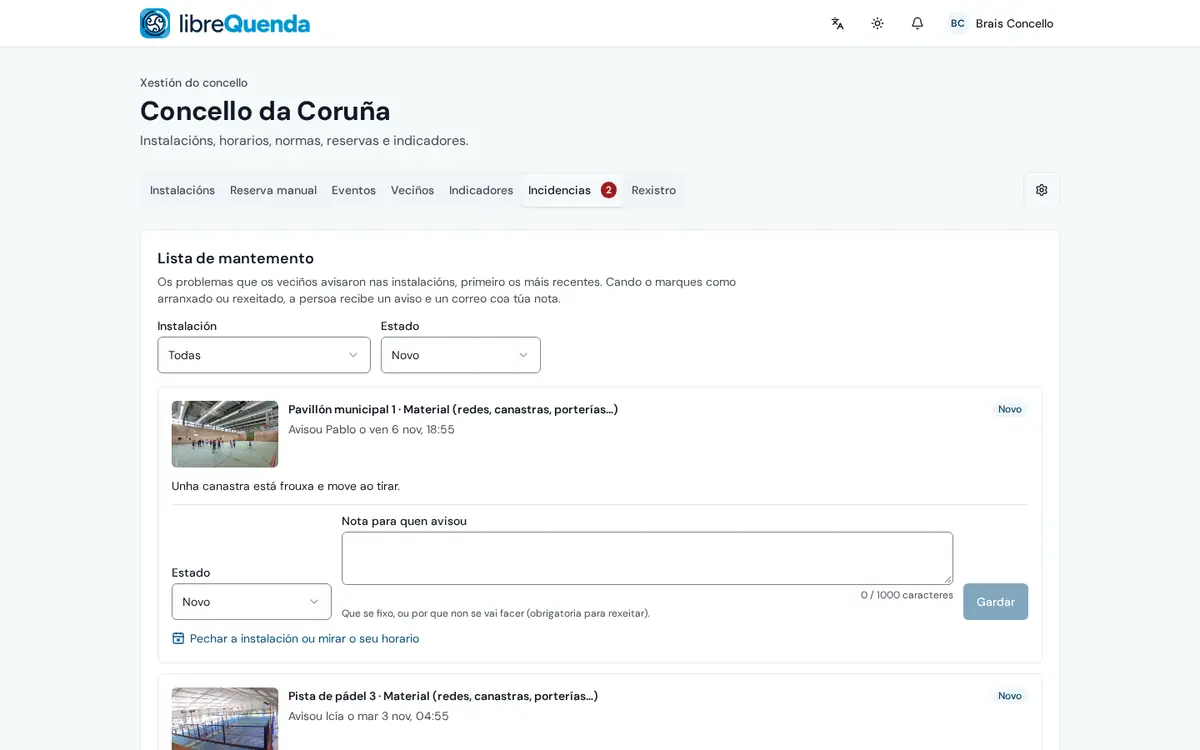
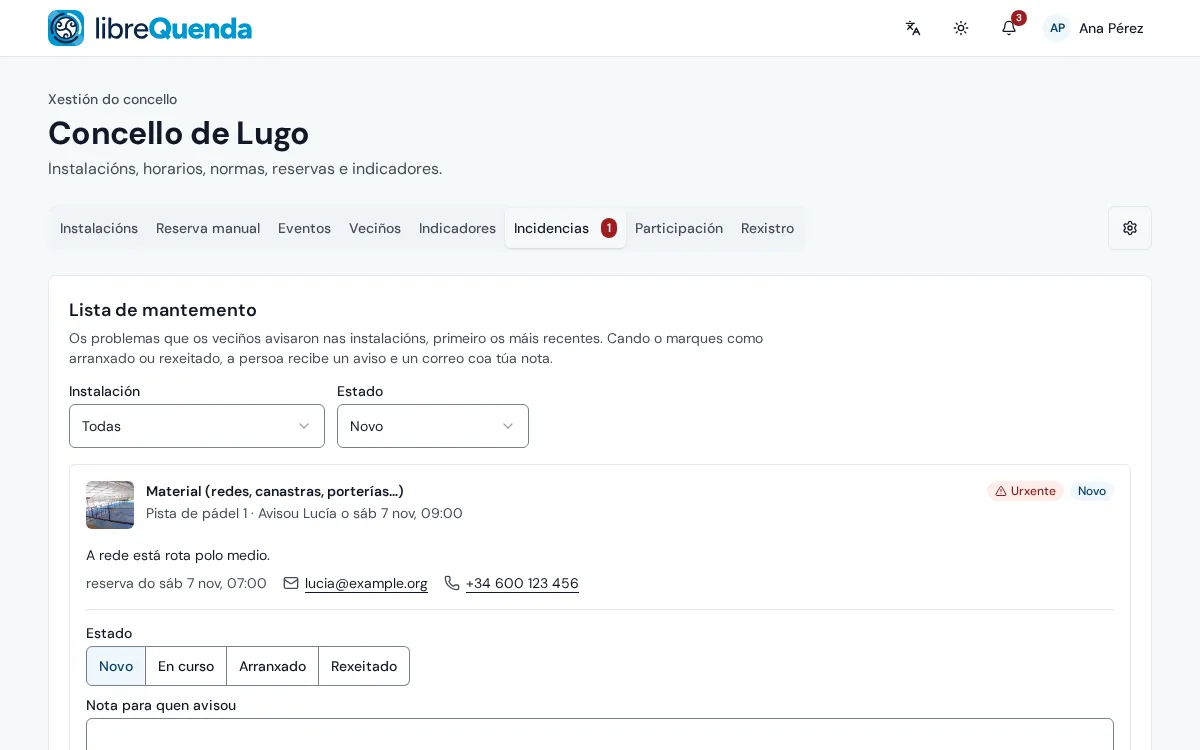
docs(wiki): the new maintenance card, the events' history and paged lists

diff --git a/docs/wiki/concello.md b/docs/wiki/concello.md
@@ -96,7 +96,7 @@ Instalacións «Só para veciños», con solicitude de verificación desde a app
 
 ## Eventos do concello
 
-Actividades cun título, aforo opcional e calquera horario, ás que se apunta a veciñanza. A plataforma avisa das reservas ou peches que coinciden e informa as persoas apuntadas se o evento cambia.
+Actividades cun título, aforo opcional e calquera horario, ás que se apunta a veciñanza. A plataforma avisa das reservas ou peches que coinciden e informa as persoas apuntadas se o evento cambia. A lista ten os **próximos** e o **historial** (os rematados e os cancelados, marcados así), unha páxina de cada vez.
 
 ![Eventos do concello](../screenshots/web/concello/events/06-event-created.webp)
 
@@ -108,9 +108,11 @@ Actividades cun título, aforo opcional e calquera horario, ás que se apunta a 
 |:-:|:-:|
 | <img src="../screenshots/web/concello/events/07-edit-event.webp" width="480"> | <img src="../screenshots/web/concello/events/09-resident-app-event-changed.webp" width="230"> |
 
+![Historial de eventos: os rematados e os cancelados](../screenshots/web/concello/events/10-events-history.webp)
+
 ## Incidencias
 
-A lista de mantemento: os problemas que avisou a veciñanza, coa foto e a urxencia. Ao marcalos como arranxados ou rexeitados, quen avisou recibe un aviso e un correo coa nota ([ver o lado da veciñanza](vecinanza.md#participación)).
+A lista de mantemento: os problemas que avisou a veciñanza, coa foto e a urxencia, filtrados por instalación e estado e unha páxina de cada vez. Cada aviso di que é e onde, o que escribiu a persoa e, debaixo, a resposta: o estado nun só toque (Novo, En curso, Arranxado, Rexeitado) e unha nota. Ao marcalos como arranxados ou rexeitados, quen avisou recibe un aviso e un correo coa nota ([ver o lado da veciñanza](vecinanza.md#participación)); os que quedan abertos saen tamén, sen datos persoais, no [estado da instalación](vecinanza.md#o-concello-informa-e-pregunta).
 
 | Lista de mantemento | Marcar como arranxado, cunha nota |
 |:-:|:-:|
@@ -118,7 +120,7 @@ A lista de mantemento: os problemas que avisou a veciñanza, coa foto e a urxenc
 
 ## Participación
 
-A lapela **Participación** é a canle propia do concello coa veciñanza, en dúas partes, cada unha co que está en marcha e o seu **historial**, para que a lista teña só o actual.
+A lapela **Participación** é a canle propia do concello coa veciñanza, en dúas partes, cada unha co que está en marcha e o seu **historial**, para que a lista teña só o actual; as listas veñen dunha páxina de cada vez.
 
 **Comunicados.** Un título e un texto, sobre unha instalación ou todo o concello, visibles ata o día que se escolla. Con «Avisar tamén», chegan á campá, á app e ao correo de quen reservou alí nos últimos 30 días (ou en todo o concello en 90 días, e á veciñanza verificada); a lista di a cantas persoas. Pódense retirar mentres están vixentes; os caducados pasan ao historial.
 
@@ -126,7 +128,7 @@ A lapela **Participación** é a canle propia do concello coa veciñanza, en dú
 |:-:|:-:|:-:|
 | ![Comunicados](../screenshots/web/concello/participation/01-notices.webp) | ![Novo](../screenshots/web/concello/participation/02-new-notice.webp) | ![Historial](../screenshots/web/concello/participation/03-notices-history.webp) |
 
-**Enquisas.** Unha pregunta con 2 a 6 respostas, aberta ata o día que se escolla (como moito 90 días), opcionalmente só para a veciñanza verificada. Ao creala pregúntaselle á xente do concello, na campá e por correo; ao pechar (no seu día ou co botón «Pechar xa»), avísaselle de que xa hai resultados. A administración ve os votos de cada resposta en todo momento; a veciñanza, só ao pechar. Unha enquisa aberta pódese borrar (un erro ao creala, por exemplo); unha pechada non: queda no historial cos seus resultados. Cada voto é anónimo: só se gardan as contas.
+**Enquisas.** Unha pregunta con 2 a 6 respostas, aberta ata o día que se escolla (como moito 90 días), opcionalmente só para a veciñanza verificada. Ao creala pregúntaselle á xente do concello, na campá e por correo; ao pechar (no seu día ou co botón «Pechar xa»), avísaselle de que xa hai resultados. A administración ve os votos de cada resposta en todo momento; a veciñanza, só ao pechar. Unha enquisa aberta pódese borrar (un erro ao creala, por exemplo); unha pechada non: queda no historial cos seus resultados, sen botón de borrar. Cada voto é anónimo: só se gardan as contas.
 
 | Abertas | Nova enquisa | Historial |
 |:-:|:-:|:-:|

diff --git a/docs/wiki/vecinanza.md b/docs/wiki/vecinanza.md
@@ -172,7 +172,7 @@ Ao rematar cada reserva, valoración anónima da instalación de 1 a 5 estrelas 
 |:-:|:-:|:-:|
 | <img src="../screenshots/android/vecino/participation/07-facility-notices.webp" width="230"> | <img src="../screenshots/android/vecino/participation/08-facility-status.webp" width="230"> | <img src="../screenshots/android/vecino/participation/09-notices-polls.webp" width="230"> |
 
-**Enquisas.** O concello pregunta («Que horario preferides os sábados?») e a pregunta chega como aviso: na campá, como notificación e por correo. Ao tocalo ábrese a enquisa; cada conta cun correo verificado vota unha vez e pode cambiar o voto mentres está aberta. Os resultados vense cando pecha, e chega outro aviso para velos. No menú da conta, «Enquisas» garda todas, abertas e pechadas, para votar ou seguir os resultados.
+**Enquisas.** O concello pregunta («Que horario preferides os sábados?») e a pregunta chega como aviso: na campá, como notificación e por correo. Ao tocalo ábrese a enquisa; cada conta cun correo verificado vota unha vez e pode cambiar o voto mentres está aberta. Os resultados vense cando pecha, e chega outro aviso para velos. No menú da conta, «Enquisas» garda todas, abertas e pechadas, para votar ou seguir os resultados; as máis antigas cárganse ao chegar ao final da lista.
 
 | Desde o aviso | Voto gardado | Resultados | No menú |
 |:-:|:-:|:-:|:-:|
